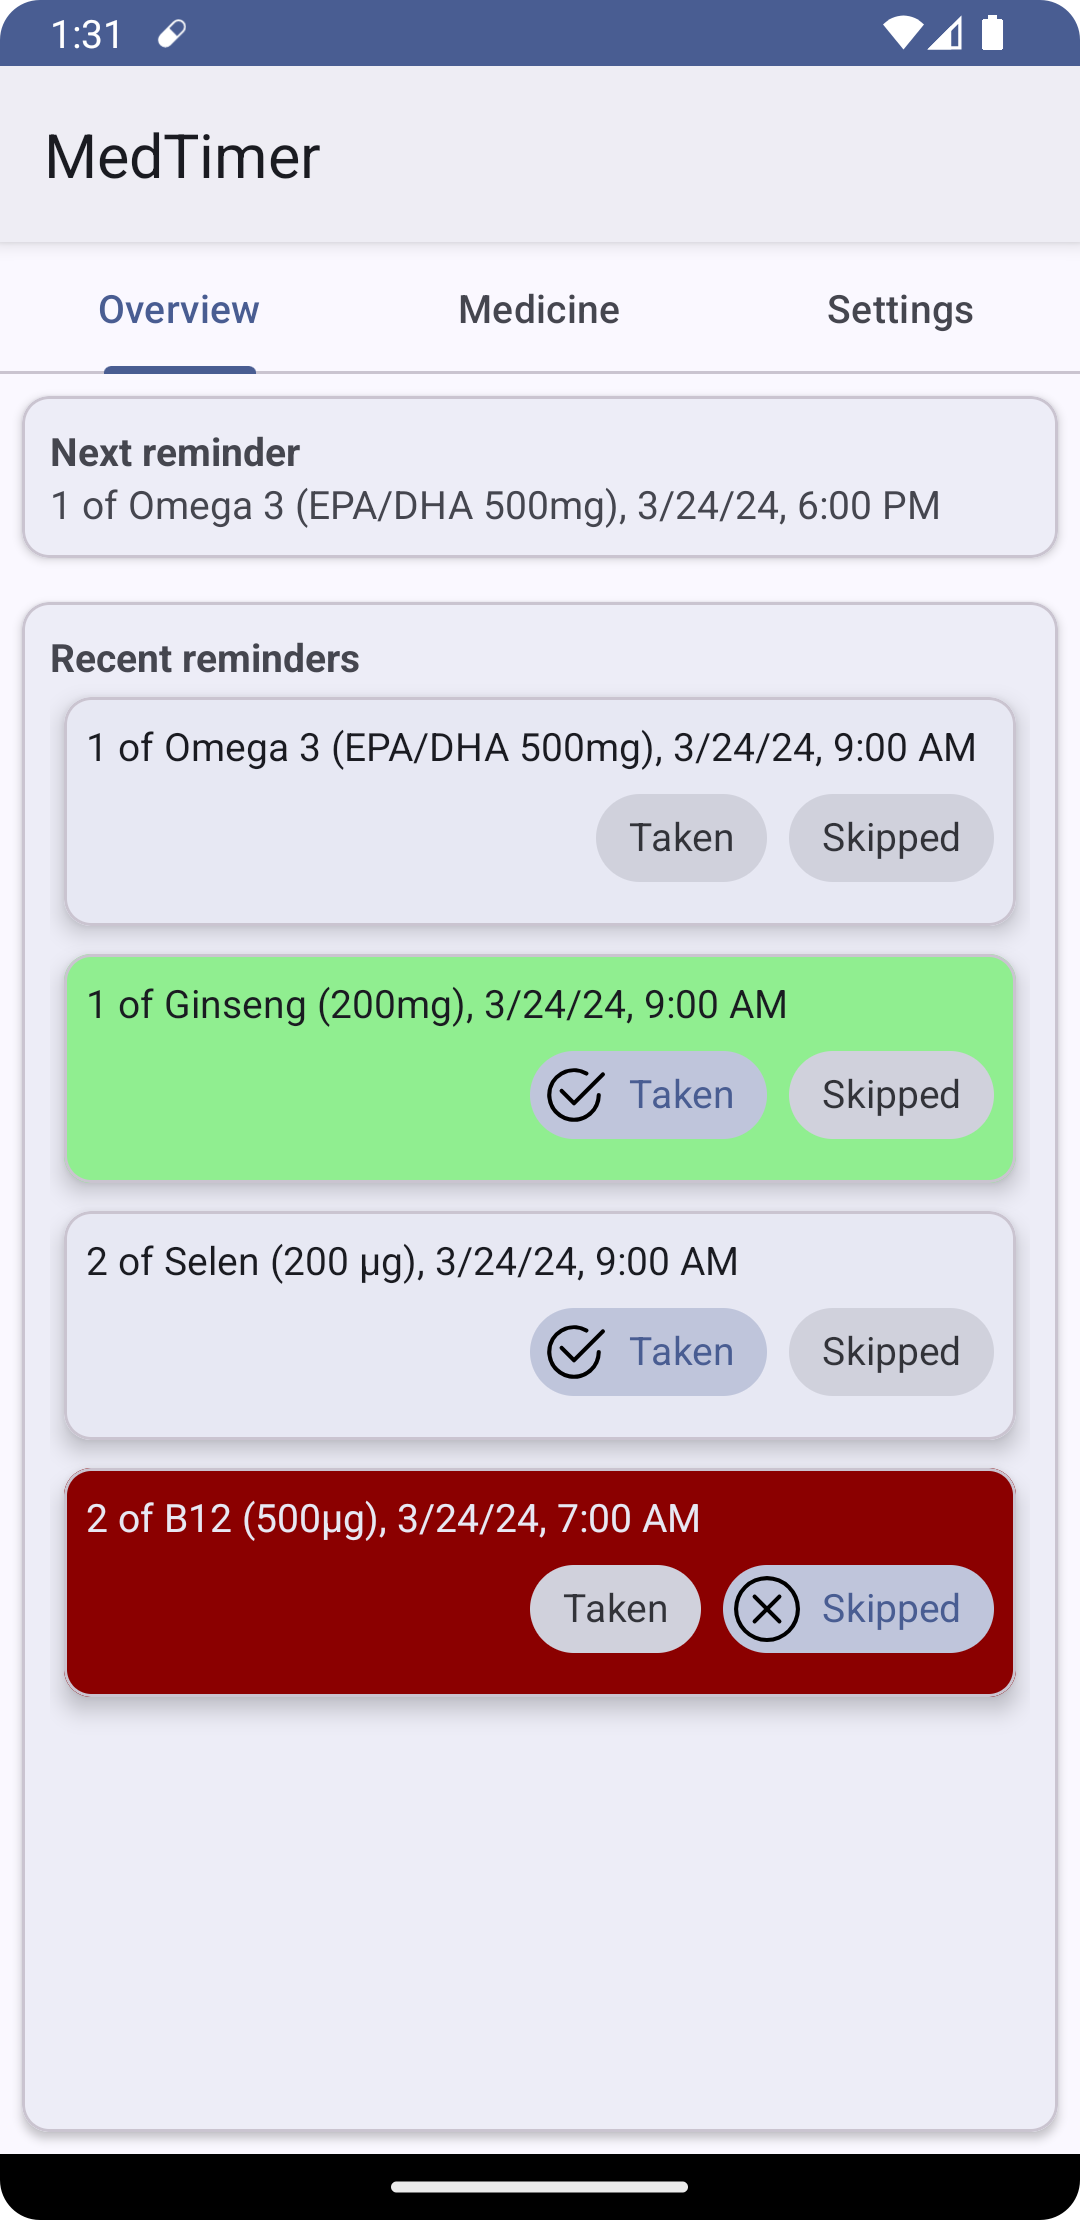
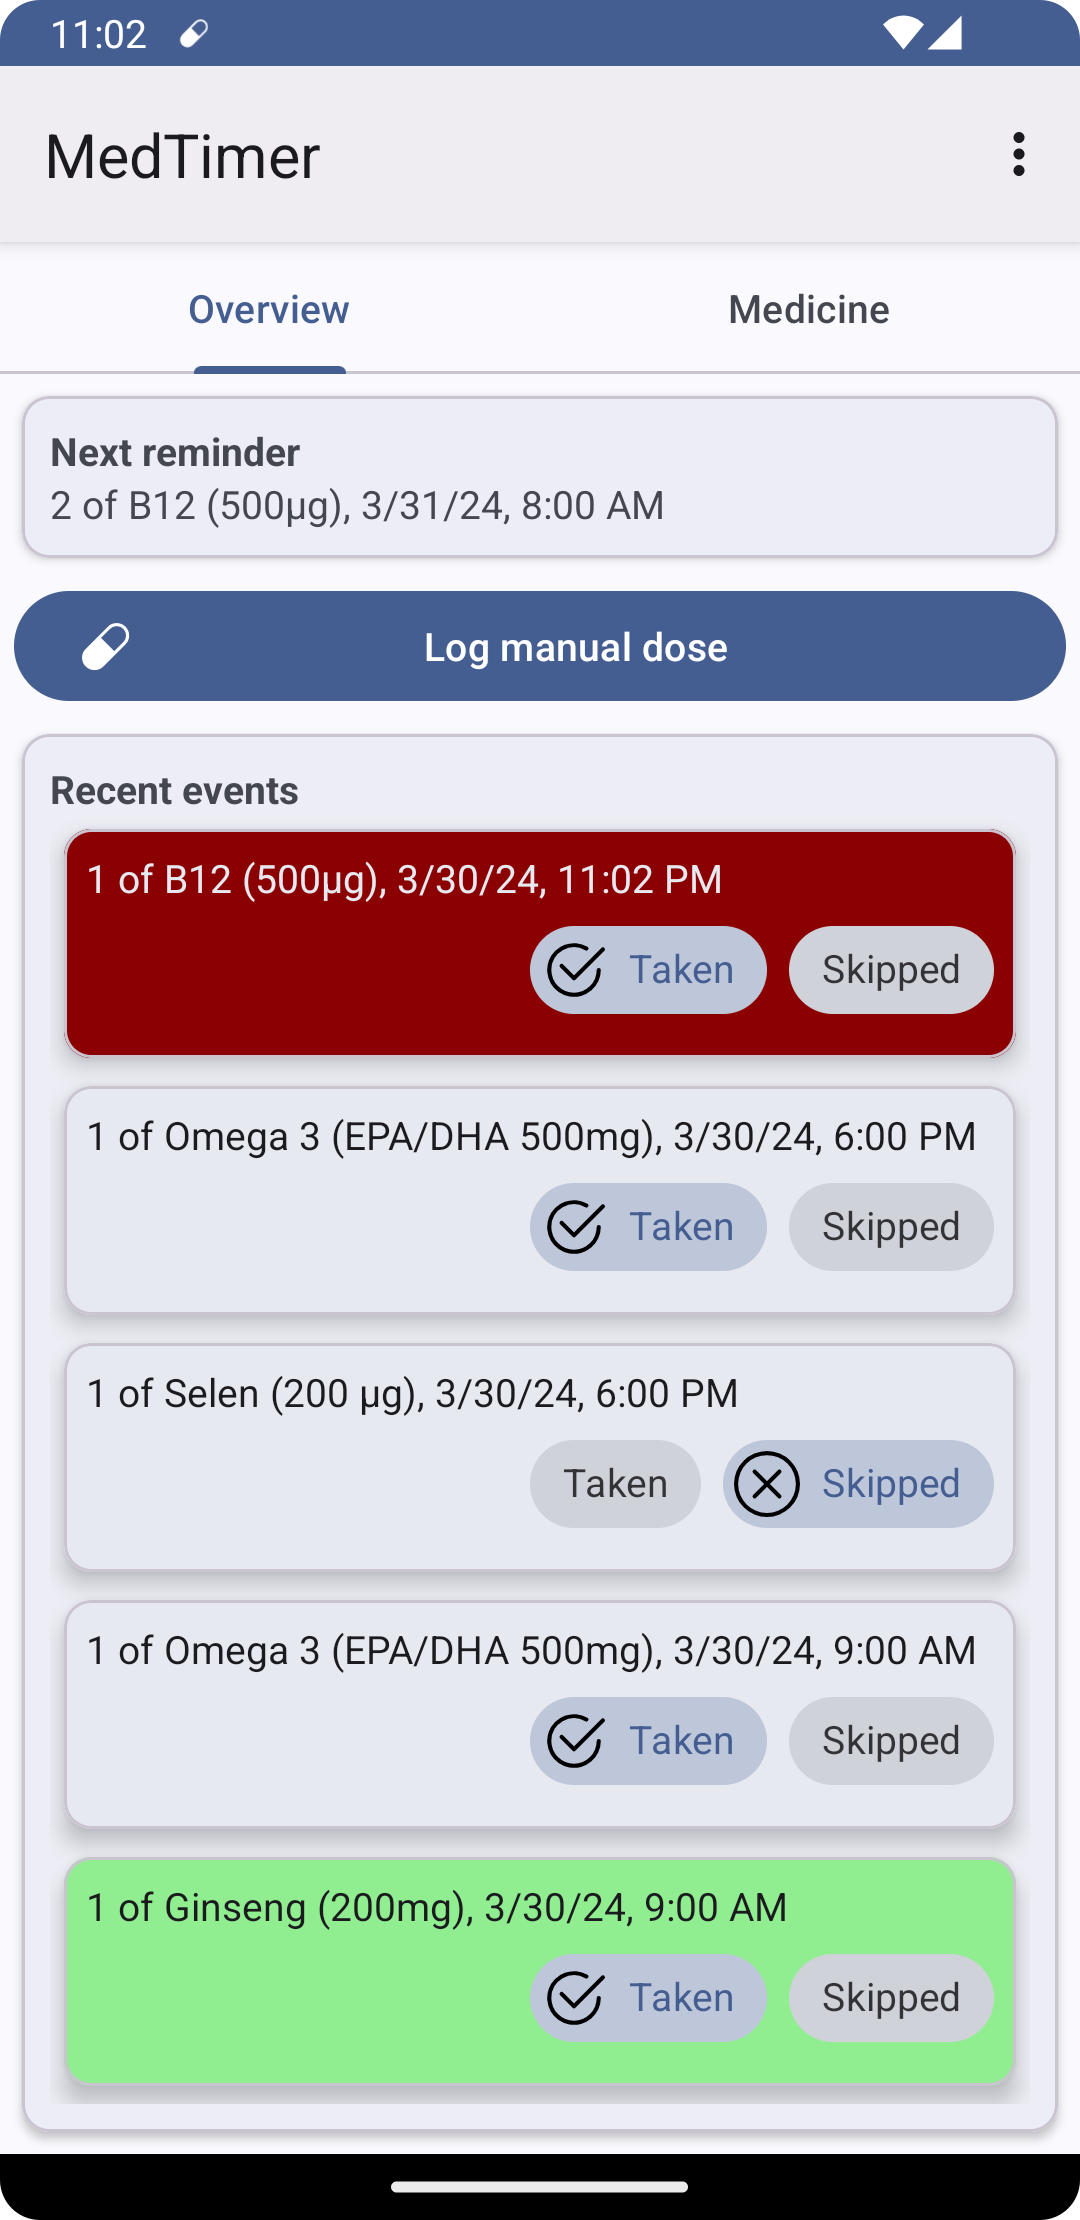
Added button for logging a manual dose (#55)
* Added button for logging a manual dose

* Fixed theme switch

* Bumped version to v1.5.0

* Use single threaded work manager

* Scroll to top when adding a new reminder event

* Store updates

* Naming optimizations

* Fixed amount text box texts

diff --git a/app/src/main/java/com/futsch1/medtimer/overview/OverviewFragment.java b/app/src/main/java/com/futsch1/medtimer/overview/OverviewFragment.java
@@ -2,14 +2,18 @@ package com.futsch1.medtimer.overview;
 
 import static com.futsch1.medtimer.ActivityCodes.NEXT_REMINDER_ACTION;
 
+import android.app.AlertDialog;
 import android.content.Context;
 import android.content.Intent;
 import android.content.IntentFilter;
 import android.content.SharedPreferences;
 import android.os.Bundle;
+import android.os.Handler;
+import android.os.HandlerThread;
 import android.view.LayoutInflater;
 import android.view.View;
 import android.view.ViewGroup;
+import android.widget.Button;
 
 import androidx.annotation.NonNull;
 import androidx.fragment.app.Fragment;
@@ -22,7 +26,10 @@ import androidx.recyclerview.widget.RecyclerView;
 import com.futsch1.medtimer.MedicineViewModel;
 import com.futsch1.medtimer.NextReminderListener;
 import com.futsch1.medtimer.R;
+import com.futsch1.medtimer.database.Medicine;
+import com.futsch1.medtimer.database.MedicineWithReminders;
 import com.futsch1.medtimer.database.ReminderEvent;
+import com.futsch1.medtimer.helpers.DialogHelper;
 
 import java.time.Instant;
 import java.util.List;
@@ -33,11 +40,8 @@ public class OverviewFragment extends Fragment {
     private MedicineViewModel medicineViewModel;
     private LatestRemindersViewAdapter adapter;
     private LiveData<List<ReminderEvent>> liveData;
+    private HandlerThread thread;
 
-    @Override
-    public void onCreate(Bundle savedInstanceState) {
-        super.onCreate(savedInstanceState);
-    }
 
     @Override
     public View onCreateView(@NonNull LayoutInflater inflater, ViewGroup container,
@@ -56,8 +60,50 @@ public class OverviewFragment extends Fragment {
         adapter = new LatestRemindersViewAdapter(new LatestRemindersViewAdapter.ReminderEventDiff());
         latestReminders.setAdapter(adapter);
         latestReminders.setLayoutManager(new LinearLayoutManager(fragmentOverview.getContext()));
+        // Scroll to top as soon as a new item was inserted
+        adapter.registerAdapterDataObserver(new RecyclerView.AdapterDataObserver() {
+            @Override
+            public void onItemRangeInserted(int positionStart, int itemCount) {
+                latestReminders.scrollToPosition(0);
+            }
+        });
+
+        // Adding a manual dose needs to be done in a background thread since the database is accessed
+        thread = new HandlerThread("SetupLogManualDose");
+        thread.start();
+        Handler handler = new Handler(thread.getLooper());
+        handler.post(this::setupLogManualDose);
 
         return fragmentOverview;
+    }
+
+    private void setupLogManualDose() {
+        List<MedicineWithReminders> medicines = medicineViewModel.medicineRepository.getMedicines();
+        CharSequence[] names = new CharSequence[medicines.size()];
+        for (int i = 0; i < names.length; i++) {
+            names[i] = medicines.get(i).medicine.name;
+        }
+        Button logManualDose = fragmentOverview.findViewById(R.id.logManualDose);
+        logManualDose.setOnClickListener(v -> new AlertDialog.Builder(requireContext())
+                .setItems(names, (dialog, which) -> logManualDose(medicines.get(which).medicine))
+                .setTitle(R.string.tab_medicine)
+                .show());
+    }
+
+    private void logManualDose(Medicine medicine) {
+        ReminderEvent reminderEvent = new ReminderEvent();
+        // Manual dose is not assigned to an existing reminder
+        reminderEvent.reminderId = -1;
+        reminderEvent.remindedTimestamp = Instant.now().toEpochMilli() / 1000;
+        reminderEvent.processedTimestamp = reminderEvent.remindedTimestamp;
+        reminderEvent.medicineName = medicine.name;
+        reminderEvent.color = medicine.color;
+        reminderEvent.useColor = medicine.useColor;
+        reminderEvent.status = ReminderEvent.ReminderStatus.TAKEN;
+        DialogHelper.showTextInputDialog(requireContext(), R.string.log_manual_dose, R.string.dosage, amount -> {
+            reminderEvent.amount = amount;
+            medicineViewModel.medicineRepository.insertReminderEvent(reminderEvent);
+        });
     }
 
     @Override
@@ -76,6 +122,7 @@ public class OverviewFragment extends Fragment {
     public void onDestroy() {
         super.onDestroy();
         requireContext().unregisterReceiver(nextReminderListener);
+        thread.quitSafely();
         nextReminderListener.stop();
     }
 }

diff --git a/app/src/main/java/com/futsch1/medtimer/medicine/EditMedicine.java b/app/src/main/java/com/futsch1/medtimer/medicine/EditMedicine.java
@@ -1,13 +1,10 @@
 package com.futsch1.medtimer.medicine;
 
-import static android.view.ViewGroup.LayoutParams.MATCH_PARENT;
-import static android.view.ViewGroup.LayoutParams.WRAP_CONTENT;
 import static com.futsch1.medtimer.ActivityCodes.EXTRA_COLOR;
 import static com.futsch1.medtimer.ActivityCodes.EXTRA_ID;
 import static com.futsch1.medtimer.ActivityCodes.EXTRA_MEDICINE_NAME;
 import static com.futsch1.medtimer.ActivityCodes.EXTRA_USE_COLOR;
 
-import android.app.AlertDialog;
 import android.app.TimePickerDialog;
 import android.content.Context;
 import android.content.SharedPreferences;
@@ -16,12 +13,10 @@ import android.os.Bundle;
 import android.os.Handler;
 import android.os.HandlerThread;
 import android.os.Looper;
-import android.text.Editable;
 import android.text.format.DateFormat;
 import android.view.MenuItem;
 import android.view.View;
 import android.widget.EditText;
-import android.widget.LinearLayout;
 import android.widget.Toast;
 
 import androidx.annotation.NonNull;
@@ -37,13 +32,12 @@ import com.futsch1.medtimer.R;
 import com.futsch1.medtimer.database.Medicine;
 import com.futsch1.medtimer.database.Reminder;
 import com.futsch1.medtimer.helpers.DeleteHelper;
+import com.futsch1.medtimer.helpers.DialogHelper;
 import com.futsch1.medtimer.helpers.SwipeHelper;
 import com.futsch1.medtimer.helpers.ViewColorHelper;
 import com.google.android.material.button.MaterialButton;
 import com.google.android.material.floatingactionbutton.ExtendedFloatingActionButton;
 import com.google.android.material.materialswitch.MaterialSwitch;
-import com.google.android.material.textfield.TextInputEditText;
-import com.google.android.material.textfield.TextInputLayout;
 import com.skydoves.colorpickerview.ColorPickerDialog;
 import com.skydoves.colorpickerview.listeners.ColorEnvelopeListener;
 
@@ -158,28 +152,7 @@ public class EditMedicine extends AppCompatActivity {
 
     private void setupAddReminderButton() {
         ExtendedFloatingActionButton fab = findViewById(R.id.addReminder);
-        fab.setOnClickListener(view -> {
-            TextInputLayout textInputLayout = new TextInputLayout(this);
-            TextInputEditText editText = new TextInputEditText(this);
-            editText.setLayoutParams(new LinearLayout.LayoutParams(MATCH_PARENT, WRAP_CONTENT));
-            editText.setHint(R.string.create_reminder_dosage_hint);
-            editText.setSingleLine();
-            textInputLayout.addView(editText);
-
-            AlertDialog.Builder builder = new AlertDialog.Builder(this);
-            builder.setView(textInputLayout);
-            builder.setTitle(R.string.add_reminder);
-            builder.setPositiveButton(R.string.ok, (dialog, which) -> {
-                Editable e = editText.getText();
-                if (e != null) {
-                    createReminder(e.toString());
-                }
-            });
-            builder.setNegativeButton("Cancel", (dialog, which) -> dialog.dismiss());
-            AlertDialog dialog = builder.create();
-            dialog.show();
-        });
-
+        fab.setOnClickListener(view -> DialogHelper.showTextInputDialog(this, R.string.add_reminder, R.string.create_reminder_dosage_hint, this::createReminder));
     }
 
     private void createReminder(String amount) {

diff --git a/app/src/main/java/com/futsch1/medtimer/MainActivity.java b/app/src/main/java/com/futsch1/medtimer/MainActivity.java
@@ -16,9 +16,13 @@ import androidx.appcompat.app.AppCompatActivity;
 import androidx.core.content.ContextCompat;
 import androidx.preference.PreferenceManager;
 import androidx.viewpager2.widget.ViewPager2;
+import androidx.work.Configuration;
+import androidx.work.WorkManager;
 
 import com.google.android.material.tabs.TabLayout;
 import com.google.android.material.tabs.TabLayoutMediator;
+
+import java.util.concurrent.Executors;
 
 public class MainActivity extends AppCompatActivity {
     private final ActivityResultLauncher<String> requestPermissionLauncher = registerForActivityResult(
@@ -44,6 +48,7 @@ public class MainActivity extends AppCompatActivity {
     protected void onCreate(Bundle savedInstanceState) {
         super.onCreate(savedInstanceState);
 
+        // Select theme
         SharedPreferences sharedPref = PreferenceManager.getDefaultSharedPreferences(getApplicationContext());
         String theme = sharedPref.getString("theme", "0");
         if (theme.equals("1")) {
@@ -52,7 +57,7 @@ public class MainActivity extends AppCompatActivity {
 
         setContentView(R.layout.activity_main);
 
-        // View pager
+        // Setup view pager
         viewPager = findViewById(R.id.view_pager);
         tabLayout = findViewById(R.id.tabs);
         viewPagerAdapter = new ViewPagerAdapter(getSupportFragmentManager(), getLifecycle());
@@ -63,7 +68,15 @@ public class MainActivity extends AppCompatActivity {
         }).attach();
 
         checkPermissions();
+
         NotificationChannelManager.createNotificationChannel(getApplicationContext());
+
+        // Make sure work manager runs in a single thread to avoid race conditions
+        WorkManager.initialize(
+                this,
+                new Configuration.Builder()
+                        .setExecutor(Executors.newFixedThreadPool(1))
+                        .build());
     }
 
     @Override

diff --git a/app/src/main/java/com/futsch1/medtimer/helpers/DialogHelper.java b/app/src/main/java/com/futsch1/medtimer/helpers/DialogHelper.java
@@ -1,0 +1,45 @@
+package com.futsch1.medtimer.helpers;
+
+import static android.view.ViewGroup.LayoutParams.MATCH_PARENT;
+import static android.view.ViewGroup.LayoutParams.WRAP_CONTENT;
+
+import android.app.AlertDialog;
+import android.content.Context;
+import android.text.Editable;
+import android.widget.LinearLayout;
+
+import com.futsch1.medtimer.R;
+import com.google.android.material.textfield.TextInputEditText;
+import com.google.android.material.textfield.TextInputLayout;
+
+public class DialogHelper {
+    private DialogHelper() {
+        // Intentionally empty
+    }
+
+    public static void showTextInputDialog(Context context, int title, int hint, TextSink textSink) {
+        TextInputLayout textInputLayout = new TextInputLayout(context);
+        TextInputEditText editText = new TextInputEditText(context);
+        editText.setLayoutParams(new LinearLayout.LayoutParams(MATCH_PARENT, WRAP_CONTENT));
+        editText.setHint(hint);
+        editText.setSingleLine();
+        textInputLayout.addView(editText);
+
+        AlertDialog.Builder builder = new AlertDialog.Builder(context);
+        builder.setView(textInputLayout);
+        builder.setTitle(title);
+        builder.setPositiveButton(R.string.ok, (dialog, which) -> {
+            Editable e = editText.getText();
+            if (e != null) {
+                textSink.consumeText(e.toString());
+            }
+        });
+        builder.setNegativeButton("Cancel", (dialog, which) -> dialog.dismiss());
+        AlertDialog dialog = builder.create();
+        dialog.show();
+    }
+
+    public interface TextSink {
+        void consumeText(String text);
+    }
+}

diff --git a/app/src/main/java/com/futsch1/medtimer/PreferencesFragment.java b/app/src/main/java/com/futsch1/medtimer/PreferencesFragment.java
@@ -45,7 +45,7 @@ public class PreferencesFragment extends PreferenceFragmentCompat {
         Preference preference = getPreferenceScreen().findPreference("theme");
         if (preference != null) {
             preference.setOnPreferenceChangeListener((preference1, newValue) -> {
-                Intent intent = requireActivity().getIntent();
+                Intent intent = new Intent(requireActivity(), MainActivity.class);
                 intent.addFlags(Intent.FLAG_ACTIVITY_NO_ANIMATION);
                 requireActivity().finish();
                 startActivity(intent);
